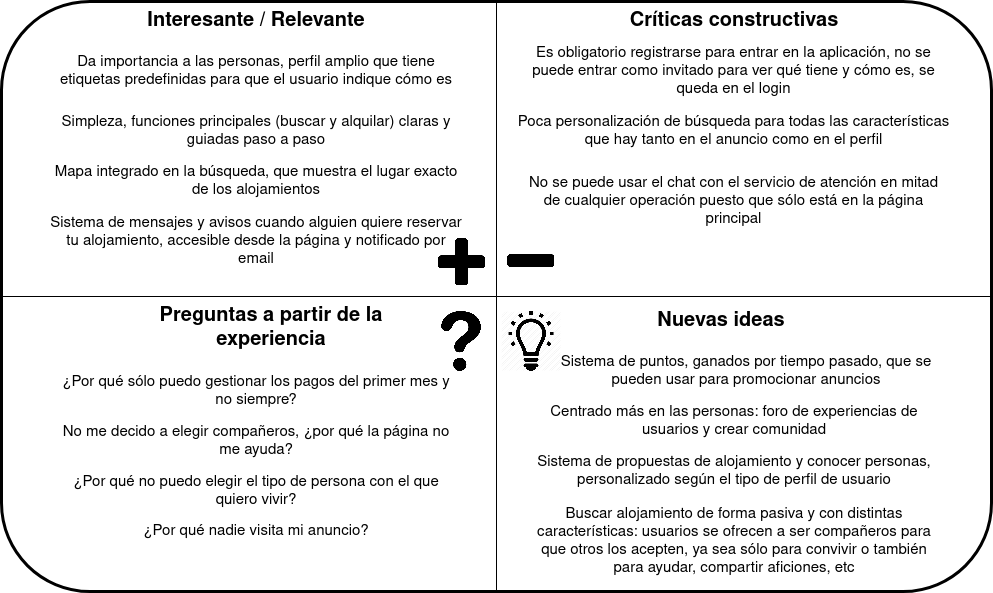
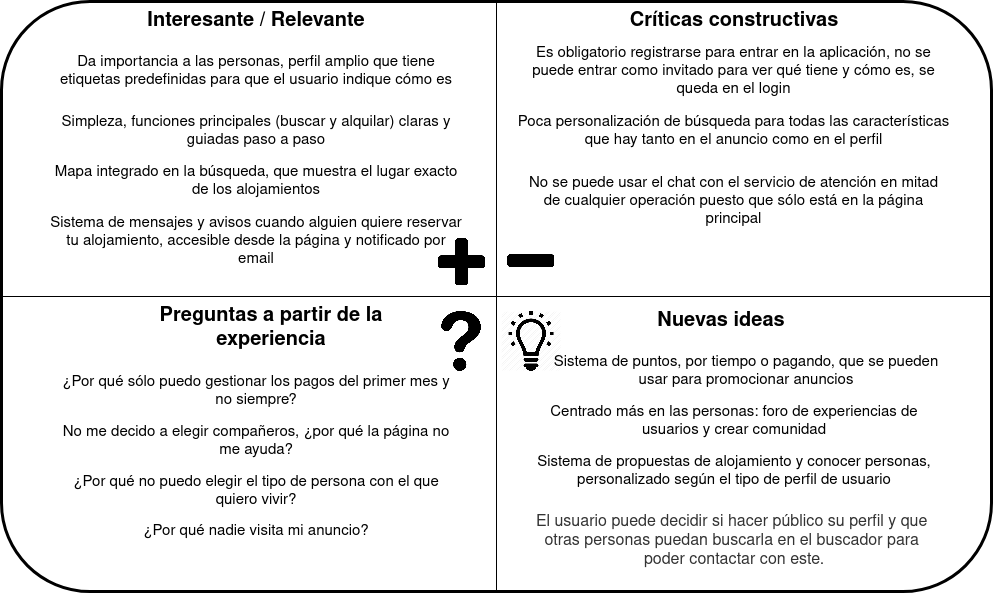
Correción hecha, falta wireframes

Changed region(s): [[0.5307, 0.8499, 0.9366, 0.9713], [0.5619, 0.5767, 0.9366, 0.6678]]

diff --git a/P2/README.md b/P2/README.md
@@ -1,5 +1,7 @@
 # DIU - Práctica 2
 
+#### Jose Luis Gallego Peña
+
 ## A. Feedback Capture Grid
 
 En la malla receptora de información (feedback capture grid) está representada la información obtenida de los usuarios de la práctica 1 y de mi propia experiencia, con el objetivo de abordar el diseño de la nueva aplicación.
@@ -13,12 +15,22 @@ Los cuatro apartados son:
 
 ![](./feedbackcapturegrid.png)
 
-La nueva aplicación a desarrollar consiste en una aplicación de economía colaborativa de compartir piso, basada en *Badi*, pero con varias mejoras que mejoren la usabilidad y den más posibilidades a la aplicación. Las nuevas ideas que se proponen son las siguientes:
+La nueva aplicación a desarrollar consiste en una aplicación de economía colaborativa de compartir piso, basada en *Badi*, pero con varias mejoras que mejoren la usabilidad y den más posibilidades a la aplicación. 
+
+La aplicación hará de intermediaria entre los inquilinos y los propietarios de los alojamientos. Los usuarios pueden poner en alquiler su alojamiento, indicando sus características, para que otros usuarios le contacten y acaben viviendo juntos. Además, contiene un sistema de notificaciones, indicando información por parte de la aplicación o avisos sobre el estado de los anuncios del usuario o mensajes en el foro, y un sistema de mensajes por el cual los usuarios pueden contactarse.
+
+Los usuarios también pueden buscar tanto alojamiento como compañero de alojamiento en un buscador con varias opciones de filtro en base a las características predefinidas que pueden ponerse tanto en el alojamiento como en el perfil del usuario. 
+
+Cada usuario tiene su perfil, en el cual podrá configurar sus datos más importantes y además sus características en cuanto a personalidad y gustos, para facilitar la experiencia de usuario y, entre otras cosas, poder buscar el compañero de piso que más se ajuste a los gustos y necesidades de cada uno. Además, el usuario puede decidir si quiere que su perfil sea público o no, para que otros usuarios puedan buscarle y proponerle compartir alojamiento.
+
+Además de esto, se añaden las siguientes nuevas ideas:
 
 - Un sistema de puntos que el usuario puede ir ganando por pasar tiempo en la página, de forma gratuita, para así premiar que el usuario pase tiempo usando el servicio. Podrá emplear estos puntos en hacer que sus anuncios suban en importancia en el buscador y así poder encontrar interesados más rápido.
 - Añadir una nueva función que amplie la experiencia social. En función de las características de las personas en sus perfiles, se ampliarán los servicios añadiendo un foro en el cual compartir experiencias en alojamientos que hayan sido gestionados por la aplicación, para así crear una comunidad de usuarios que compartan sus experiencias y puedan finalmente conocerse y querer compartir alojamiento.
 - Añadir un nuevo sistema de propuestas de alojamiento, que recomiende al usuario sitios de alojamiento y perfiles de personas afines a las características de su perfil.
-- Búsqueda de alojamiento de forma pasiva. En la aplicación base el usuario buscaba por sí mismo alojamiento, pero con este sistema el usuario puede también proponerse a sí mismo como alguien que busca alojamiento, para que ahora otras personas interesadas en buscar compañero encuentren el tipo de persona que desean. El usuario publica su perfil y, además, qué tipo de experiencia de compañero puede ofrecer: compartir aficiones, ayudar a personas mayores, trabajar juntos, etc.
+- Compañero ideal: el usuario puede decidir si hacer público su perfil y que otras personas puedan buscarla en el buscador para poder contactar con este.
+
+La gran mayoría de partes de la aplicación tendrán un botón de ayuda, que les redirigirá a la página de ayuda correspondiente.
 
 El objetivo general de la nueva propuesta es que se centre más en las personas, teniendo la posibilidad de rellenar un perfil de usuario con varias características de la persona, para luego al filtrar las búsquedas, existan más posibilidades y poder buscar por tipo de persona.
 
@@ -30,24 +42,31 @@ Para identificar las tareas de la nueva propuesta de aplicación y su importanci
 
 Las tareas en negrita son las que se consideran más críticas e importantes en la aplicación. Se tendrá más cuidado a la hora de diseñarlas en la propuesta final.
 
-| Tareas/Usuarios                                              | Usuarios registrados | Usuarios no registrados | Administrador |
-| ------------------------------------------------------------ | -------------------- | ----------------------- | ------------- |
-| **Crearse un perfil**                                        |                      | L                       |               |
-| Modificar el perfil                                          | L                    |                         |               |
-| **Buscar/Visitar otros perfiles**                            | A                    | L                       |               |
-| **Crear un anuncio de habitación**                           | L                    |                         |               |
-| Modificar el anuncio de habitación                           | M                    |                         |               |
-| **Buscar/Visitar un anuncio de habitación**                  | A                    | A                       |               |
-| Valorar un anuncio de habitación                             | M                    |                         |               |
-| Valorar a un compañero                                       | M                    |                         |               |
-| Usar/consultar puntos de fidelidad                           | M                    |                         |               |
-| **Publicarse como compañero de alojamiento**                 | L                    |                         |               |
-| Recibir propuestas personalizadas de habitaciones y compañeros | A                    |                         |               |
-| **Comentar/Consultar el foro de experiencias**               | A                    |                         |               |
-| Usar el chat de atención al cliente                          | L                    | L                       | A             |
-| Consultar el apartado de FAQ                                 | L                    | M                       |               |
-| Consultar las notificaciones                                 | A                    |                         |               |
-| Moderar el foro                                              |                      |                         | A             |
+Se han ordenado las tareas de mayor a menor siguiendo el siguiente criterio de puntuación: B = 1 punto, M = 2 puntos y A = 3 puntos. Con esto se pretende distinguir fácilmente las tareas más importantes y más usadas de las que menos en un simple vistazo.
+
+| Tareas/Usuarios                                              | Usuarios registrados | Usuarios no registrados | Administrador | Puntuación |
+| ------------------------------------------------------------ | -------------------- | ----------------------- | ------------- | ---------- |
+| **Buscar/Visitar un anuncio de habitación**                  | A                    | A                       |               | 6          |
+| **Usar el chat de atención al cliente**                      | L                    | L                       | A             | 5          |
+| **Buscar/Visitar otros perfiles**                            | A                    | L                       |               | 4          |
+| **Contactar con un usuario**                                 | A                    |                         | L             | 4          |
+| Recibir propuestas personalizadas de habitaciones y usuarios | A                    |                         |               | 3          |
+| Comentar/Consultar el foro de experiencias                   | A                    |                         |               | 3          |
+| Consultar la ayuda                                           | L                    | M                       |               | 3          |
+| Consultar las notificaciones                                 | A                    |                         |               | 3          |
+| Moderar el foro                                              |                      |                         | A             | 3          |
+| Añadir notificaciones                                        |                      |                         | A             | 3          |
+| Consultar mis anuncios                                       | A                    |                         |               | 3          |
+| Cambiar ajustes de la aplicación                             | L                    | L                       | L             | 3          |
+| **Modificar el anuncio de habitación**                       | M                    |                         |               | 2          |
+| Valorar un anuncio de habitación                             | M                    |                         |               | 2          |
+| Valorar a un usuario                                         | M                    |                         |               | 2          |
+| Usar/consultar puntos de fidelidad                           | M                    |                         |               | 2          |
+| Consultar mis favoritos                                      | M                    |                         |               | 2          |
+| **Crearse un perfil**                                        |                      | L                       |               | 1          |
+| Modificar el perfil                                          | L                    |                         |               | 1          |
+| **Crear un anuncio de habitación**                           | L                    |                         |               | 1          |
+| **Hacer público el perfil**                                  | L                    |                         |               | 1          |
 
 Se han definido tres tipos de usuarios, que son los más comunes en cualquier página: usuarios registrados, usuarios no registrados y administradores.
 
@@ -57,9 +76,9 @@ Todas las tareas relacionadas con las dos funciones principales de la aplicació
 
 Mediante las técnicas de arquitectura de la información (Sitemap y Labelling) creamos la organización y estructura de los contenidos de una aplicación, que nos sirve para entender dónde estamos como usuarios y dónde está la información desde donde estamos. 
 
-En el sitemap vemos representada la estructura de la página en un mapa, mientras que en el labelling describimos la función de todas aquellas etiquetas que aparecen en el mapa.
+En el sitemap vemos representada la estructura de la página en un mapa, mientras que en el labelling describimos la función de todas aquellas etiquetas que aparecen en el mapa, con su traducción al inglés y, si tiene, el icono asociado a esa etiqueta.
 
-El labelling está adaptado a las normas de escritura de la web, es decir, usa lenguaje simple y claro, fácil de encontrar y fácil de saber a dónde nos lleva, para facilitar a los usuarios que cumplan rápidamente sus objetivos. Las etiquetas accesibles desde la página principal son simples de entender, están a primera vista y realizan las funciones principales de la aplicación.
+El labelling está adaptado a las normas de escritura de la web, es decir, usa lenguaje simple y claro, fácil de encontrar y fácil de saber a dónde nos lleva, para facilitar a los usuarios que cumplan rápidamente sus objetivos. Las etiquetas accesibles desde la página principal son simples de entender, están a primera vista y realizan las funciones principales de la aplicación. Su objetivo principal es unificar la forma en la que se dice algo en el entorno de la aplicación.
 
 ![](./sitemap.png)
 
@@ -68,14 +87,18 @@ El labelling está adaptado a las normas de escritura de la web, es decir, usa l
 | Página principal            | Página principal de la aplicación, accesible al iniciar la aplicación. Contiene el menú inferior, el menú lateral, las opciones de publicar habitación y experiencia en compañia, y recomendaciones personalizadas. |
 | Publicar habitación         | Rellena un formulario con los distintos datos de la aplicación que quieres publicar. |
 | Modificar habitación        | Permite modificar todos los datos de la habitación que has publicado. |
-| Experiencias en compañía    | Rellena un formulario, publicando tu perfil y el tipo de experiencia en compañía que ofreces y/o buscas para que otros usuarios te puedan buscar y contactar. |
+| Hacer público el perfil     | El usuario hace público su perfil para que otros usuarios le puedan buscar y contactar. |
 | Buscar                      | Buscar alojamiento o personas que buscan alojamiento, según distintos parámetros, principalmente localización. |
+| Filtrar búsqueda            | El usuario filtra la búsqueda tanto de usuarios como de habitaciones según unos parámetros establecidos. |
 | Habitación                  | Anuncio de una habitación, con sus fotos, características y enlaces a los perfiles de compañeros y propietarios que forman parte de él. |
-| Perfil Compañero            | Perfil de otro usuario de la web, con su foto, caracterísitcas y contacto. No puede modificarse. |
-| Perfil                      | Tu perfil, con su foto, características y contacto. Puede modificarse. |
+| Reservar habitación         | El usuario decide reservar una habitación y esperará a que el propietario le informe. |
+| Perfil usuario              | Perfil de otro usuario de la web, con su foto, caracterísitcas y contacto. No puede modificarse. |
+| Contactar con usuario       | El usuario decide contactar con otro usuario, abriendo un chat de mensajes. |
+| Mi Perfil                   | Tu perfil, con su foto, características y contacto. Puede modificarse. |
 | Modificar perfil            | Permite modificar todos los datos de tu perfil.              |
-| Mensajes                    | Notificaciones y mensajes para cuando alguien contacta contigo o te dan una valoración. |
-| Favoritos                   | Anuncios y perfiles que has marcado como favoritos, para acceder a ellos más fácilmente. |
+| Mis Notificaciones          | Notificaciones del sistema o para cuando alguien interactua de alguna manera (valorando, comentando, etc) alguno de tus anuncios o foros. |
+| Mis Mensajes                | Mensajes del usuario con otros usuarios.                     |
+| Mis Favoritos               | Anuncios y perfiles que has marcado como favoritos, para acceder a ellos más fácilmente. |
 | Añadir anuncio a favoritos  | Añade un anuncio a tu lista de favoritos.                    |
 | Añadir usuario a favoritos  | Añade un usuario a tu lista de favoritos.                    |
 | Foro de experiencias        | Foro en el que los distintos usuarios pueden compartir sus experiencias y debatir sobre cualquier tema, para así formar comunidad. |
@@ -86,6 +109,9 @@ El labelling está adaptado a las normas de escritura de la web, es decir, usa l
 | Ayuda                       | Sección con un chat de atención al cliente, una lista de preguntas frecuentes (FAQ) y contacto por si tienes algun problema. |
 | Chat ayuda                  | Chat en tiempo real con el servicio de atención al cliente.  |
 | Enviar mensaje chat ayuda   | Enviar al servicio de atención al cliente el mensaje que has escrito. |
+| Valorar anuncio/usuario     | El usuario da una valoración de entre 0 y 5 estrellas al anuncio o usuario. |
+| Acerca De                   | Información sobre la aplicación y copyright.                 |
+| Ajustes de la aplicación    | Diversos parámetros que el usuario puede configurar en la aplicación: activar/desactivar notificaciones, modo nocturno y cerrar sesión. |
 
 ## E. Wireframes
 
